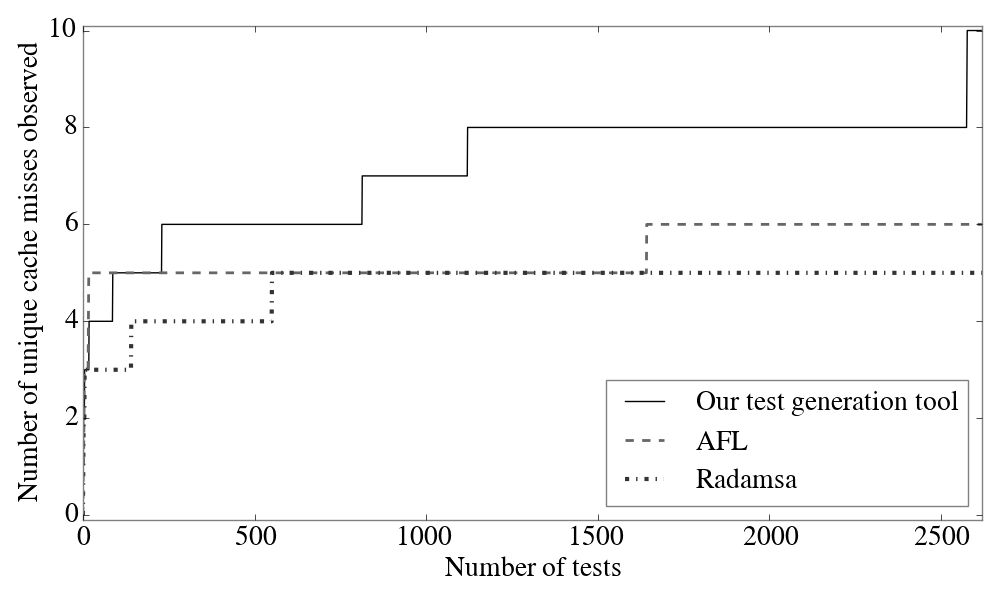
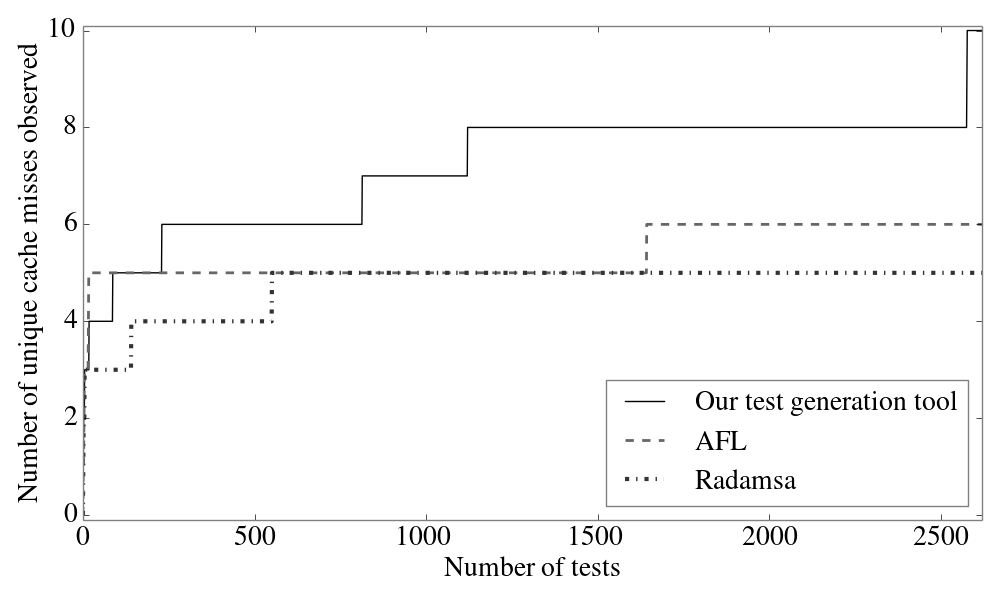
generated new plots

diff --git a/plots/generate_plot.py b/plots/generate_plot.py
@@ -62,9 +62,9 @@ rc('axes',edgecolor='grey')
 plt.figure(figsize=(10,6))
 
 #plotting the data
-plt.plot(x_axis_points, our_results_plot_data, 'k-', linewidth='1', label='Our test generation tool')
-plt.plot(x_axis_points, afl_results_plot_data, 'k--', linewidth='2', color='0.4', label='AFL')
-plt.plot(x_axis_points, rad_results_plot_data, 'k-.', linewidth='3', color='0.2', label='Radamsa')
+plt.plot(x_axis_points, our_results_plot_data, 'k-', linewidth='3', label='Our test generation tool')
+plt.plot(x_axis_points, afl_results_plot_data, 'k--', linewidth='4', label='AFL')
+plt.plot(x_axis_points, rad_results_plot_data, 'k-.', linewidth='5', label='Radamsa')
 
 #adding labels to the plot
 plt.xlabel("Number of tests", fontsize=large_fontsize)
